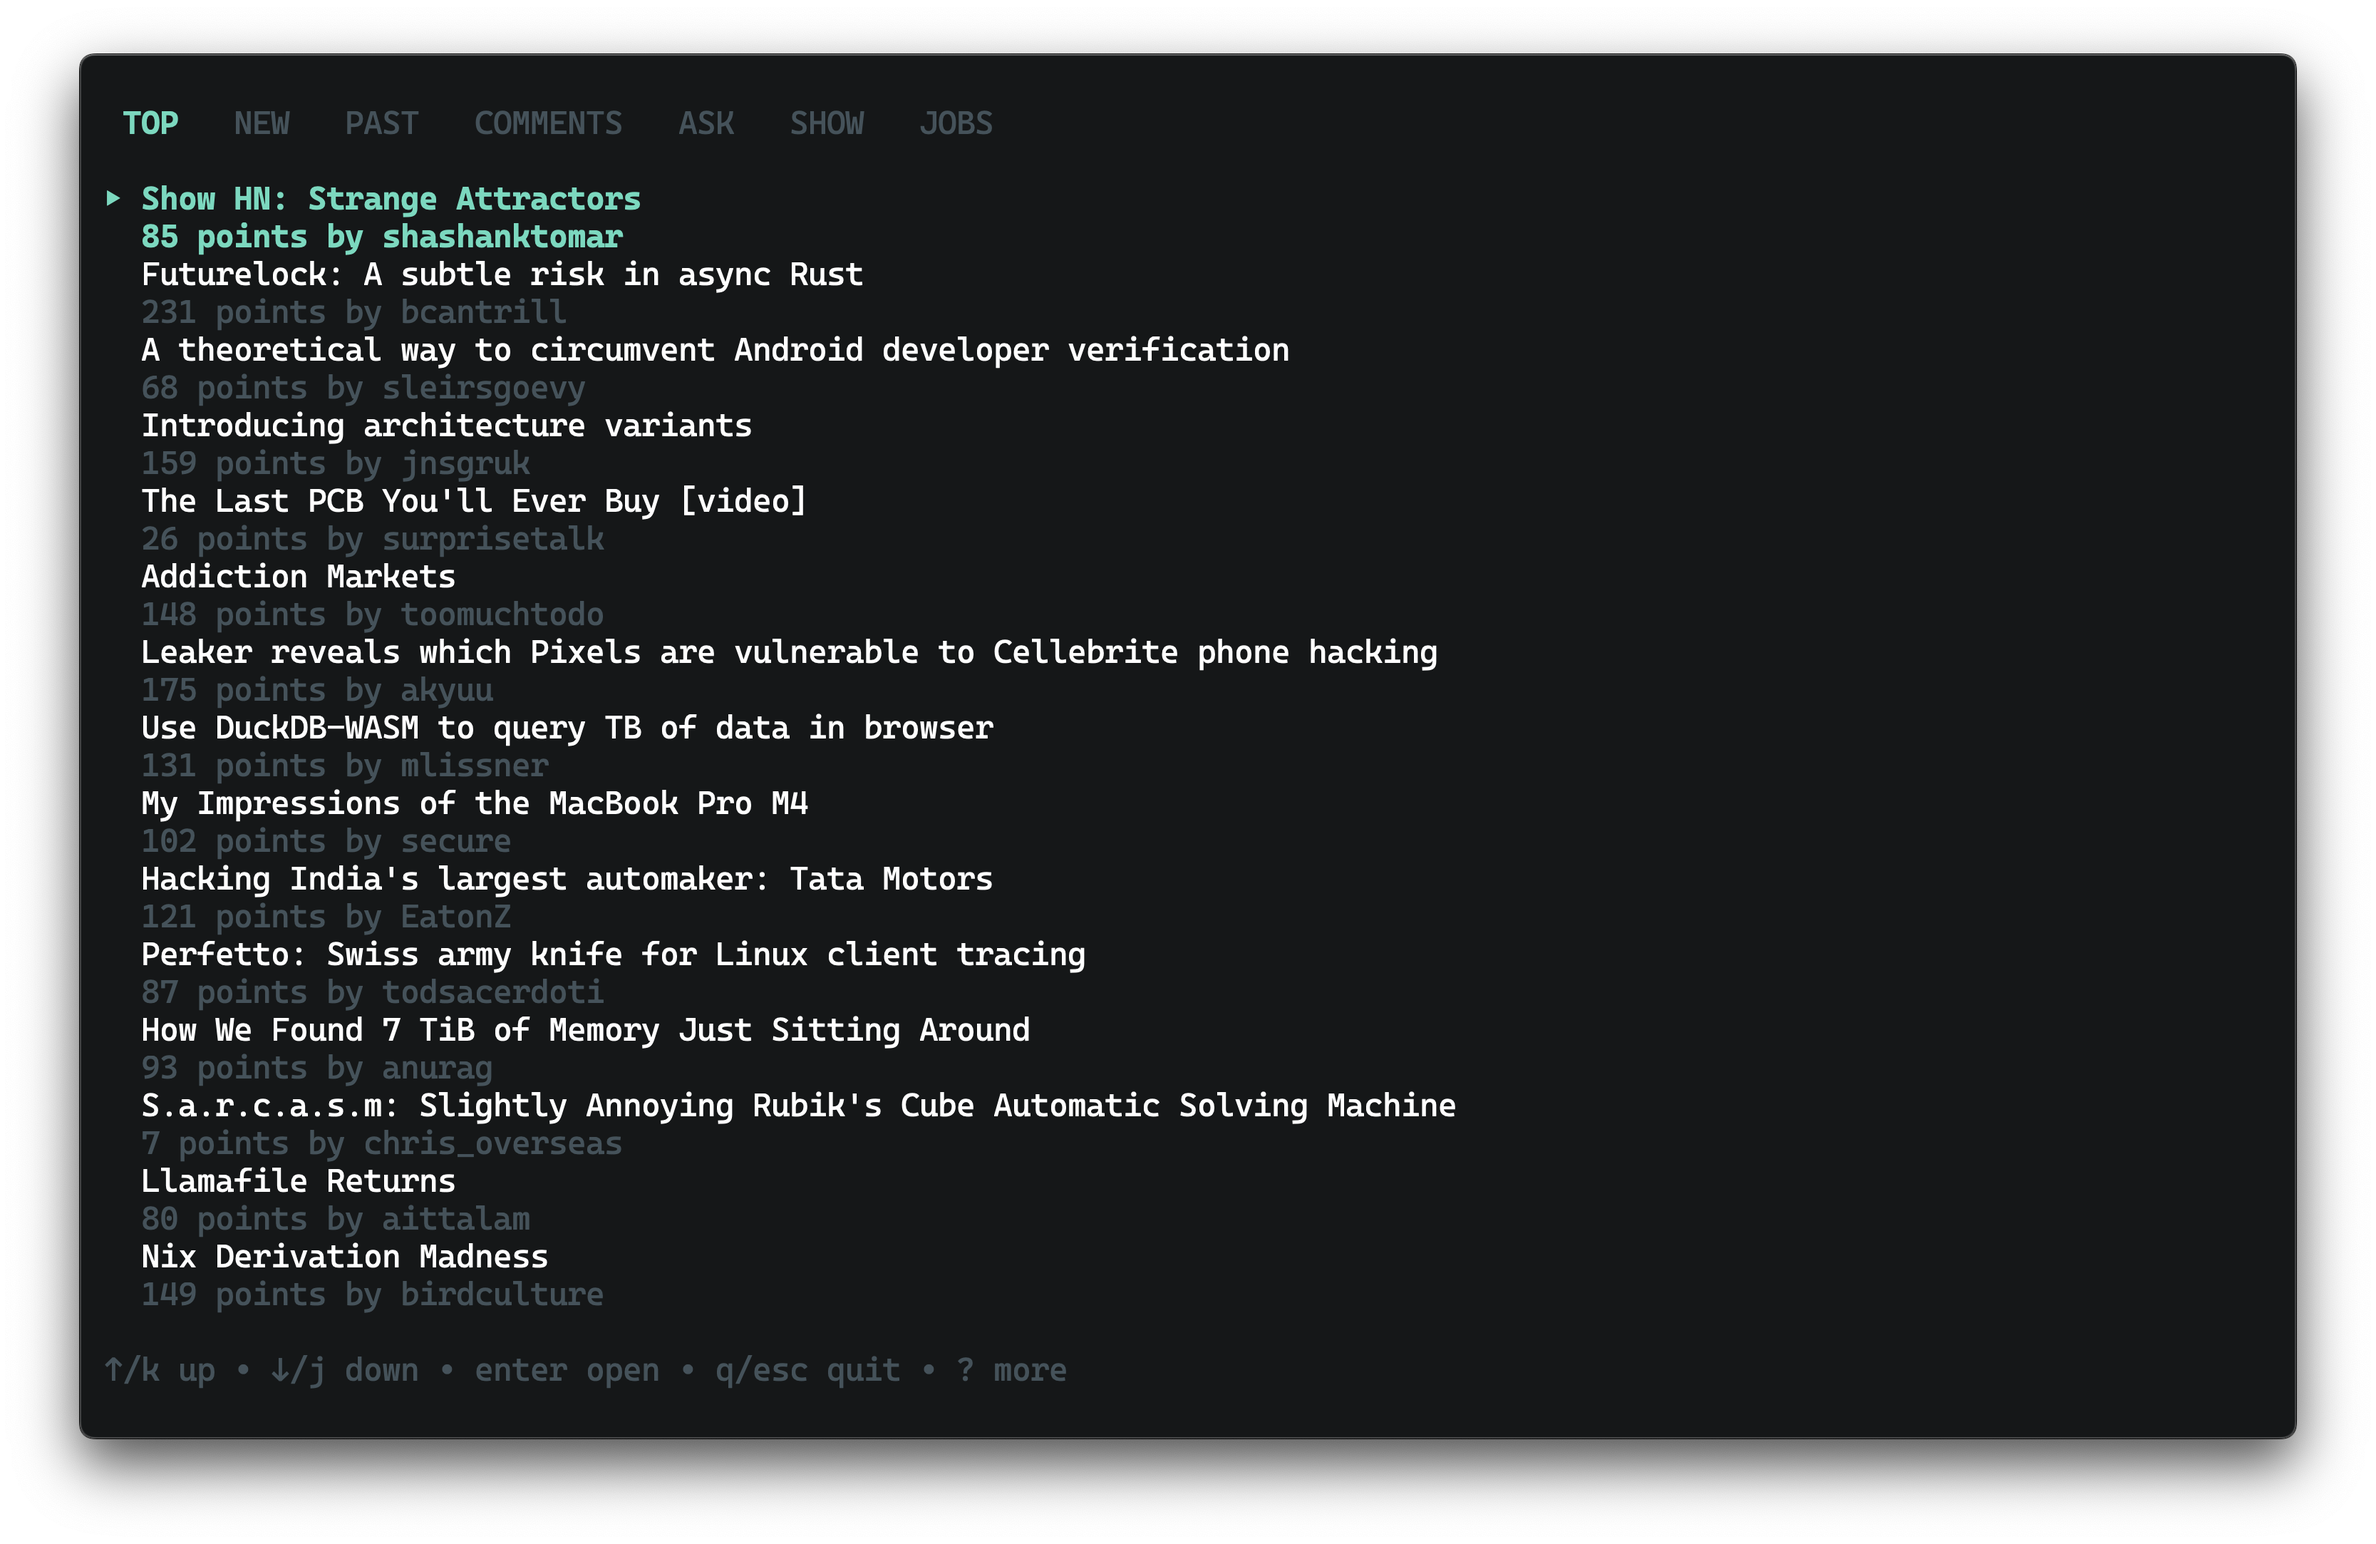
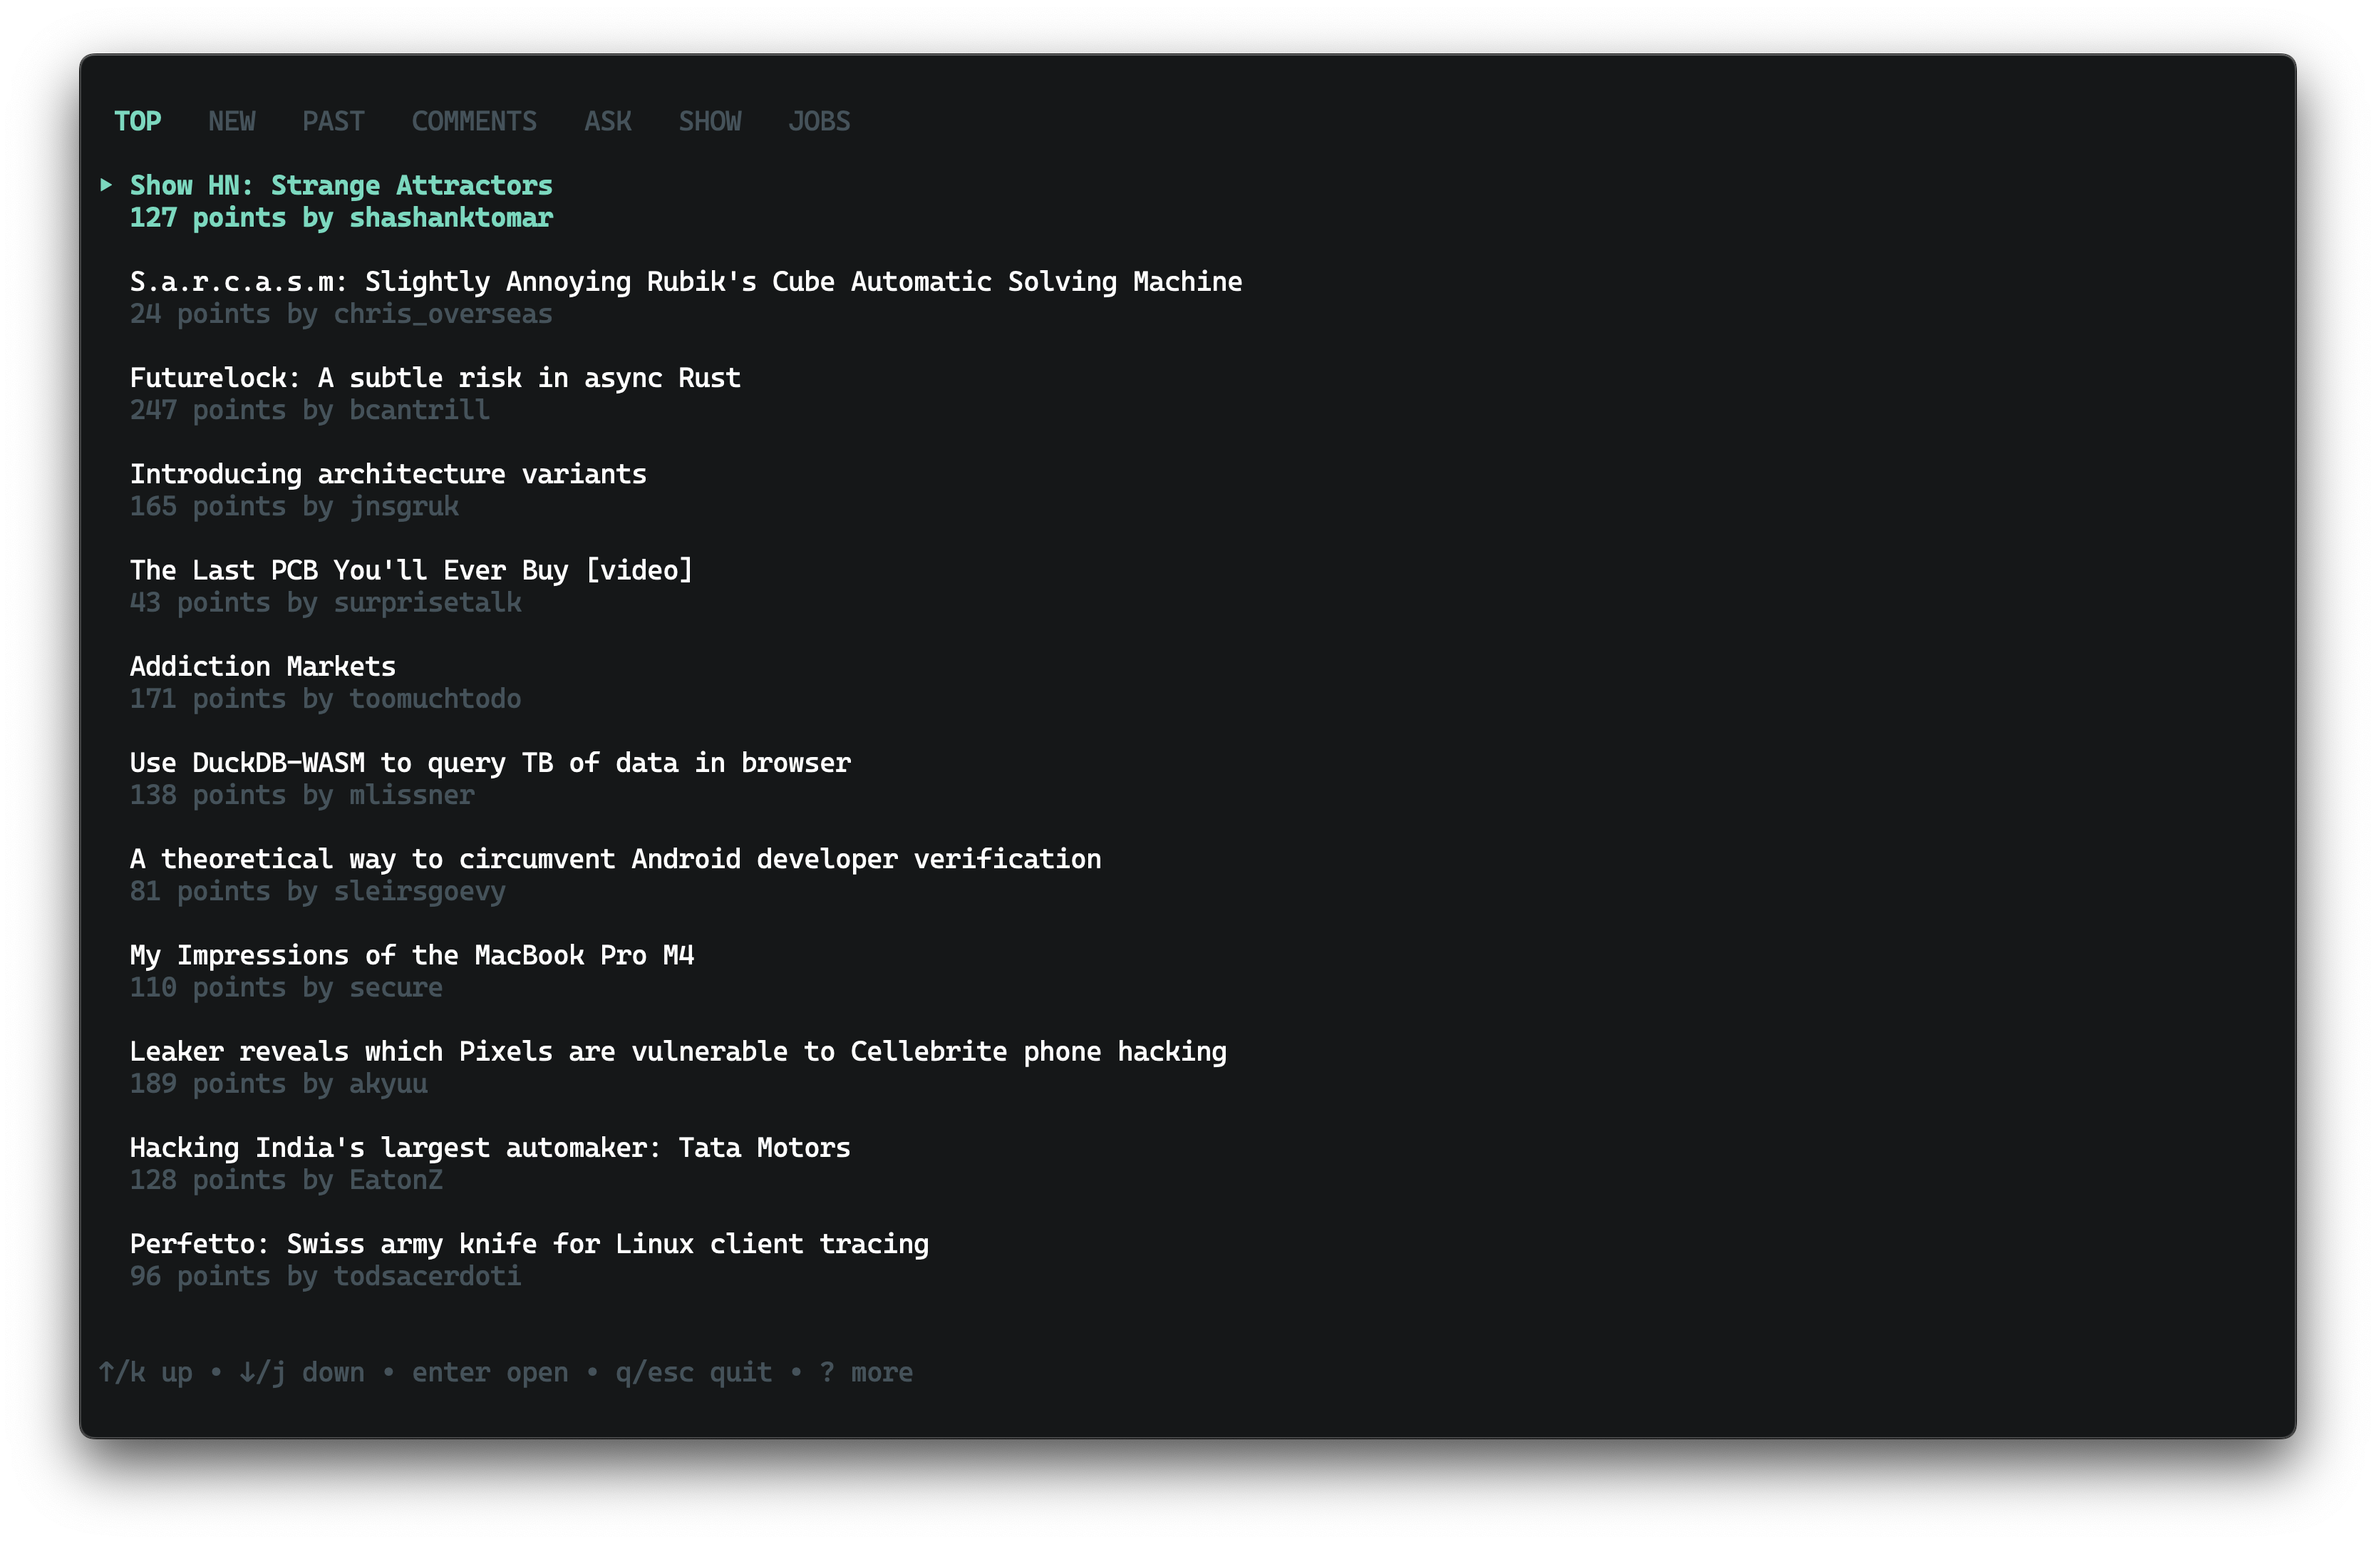
Add extra spacing between entries

diff --git a/src/main.rs b/src/main.rs
@@ -254,6 +254,8 @@ fn draw(frame: &mut Frame, app: &App) {
           ]));
         }
 
+        lines.push(Line::from(Span::raw(indent.clone())));
+
         ListItem::new(lines)
       })
       .collect()
